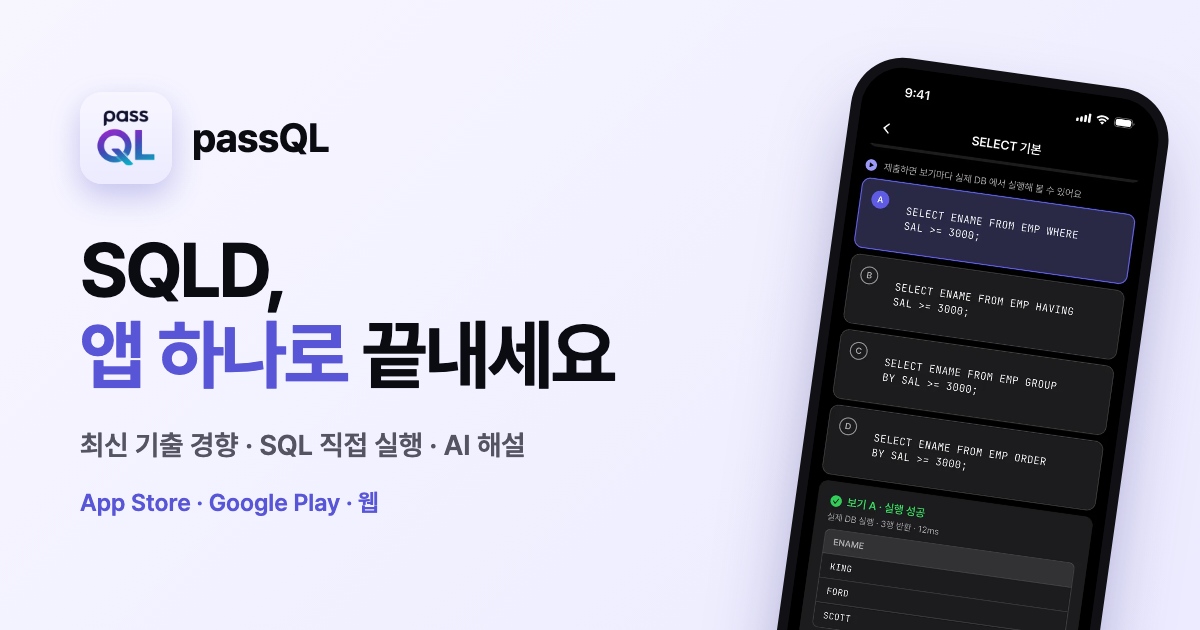
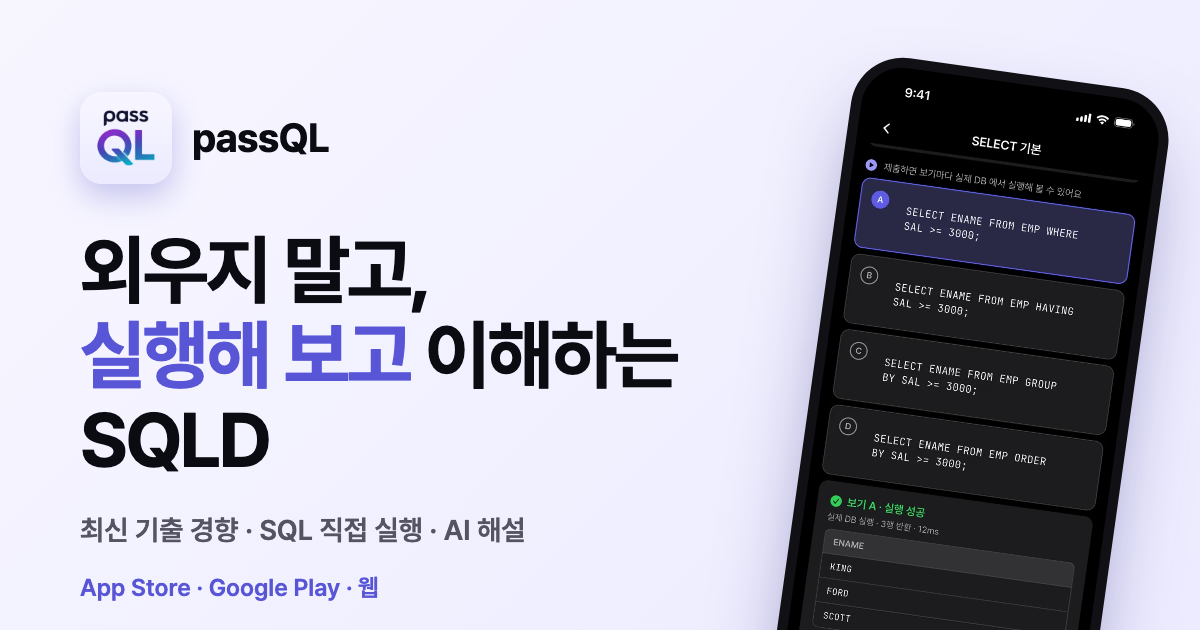
스토어 검색과 광고 인증 정비: Play 이름 SQLD, iOS 마케팅 URL, 무료 프로 설명 : docs : 소개 사이트 제목, 첫 화면, 공유 이미지, 하단 문구를 '외우지 말고, 실행해 보고 이해하는 SQLD' 메시지로 변경 https://github.com/Twin-Fang/passQL/issues/864

Changed region(s): [[0.0617, 0.3619, 0.5858, 0.754], [0.0617, 0.7841, 0.4317, 0.8746], [0.0617, 0.9048, 0.3392, 0.9651]]

diff --git a/index.html b/index.html
@@ -3,22 +3,22 @@
 <head>
 <meta charset="utf-8">
 <meta name="viewport" content="width=device-width, initial-scale=1">
-<title>passQL — SQLD 문제 풀이 앱 | 최신 기출 경향, AI 해설, 매일 5문제</title>
-<meta name="description" content="책 없이 앱 하나로 SQLD 준비. 제58~62회 복원 기출 경향을 반영한 문제를 풀고, 보기 SQL을 직접 실행하고, 틀린 이유는 AI 해설로 바로 확인하세요. 단원별 개념 학습, 매일 5문제 오늘의 세트, 합격 준비도까지. iPhone·Android·웹.">
+<title>passQL(패스큐엘) — SQLD 문제 풀이 앱 | 실행해 보고 이해하는 SQLD, AI 해설</title>
+<meta name="description" content="외우지 말고, 실행해 보고 이해하는 SQLD. 제58~62회 복원 기출 경향을 반영한 문제를 풀고, 보기 SQL을 직접 실행하고, 틀린 이유는 AI 해설로 바로 확인하세요. 단원별 개념 학습, 매일 5문제 오늘의 세트, 합격 준비도까지. iPhone·Android·웹.">
 <link rel="canonical" href="https://twin-fang.github.io/passQL/">
 <meta property="og:type" content="website">
 <meta property="og:site_name" content="passQL">
 <meta property="og:locale" content="ko_KR">
-<meta property="og:title" content="passQL — SQLD 문제 풀이 앱 | 최신 기출 경향, AI 해설, 매일 5문제">
-<meta property="og:description" content="책 없이 앱 하나로 SQLD 준비. 제58~62회 복원 기출 경향을 반영한 문제를 풀고, 보기 SQL을 직접 실행하고, 틀린 이유는 AI 해설로 바로 확인하세요. 단원별 개념 학습, 매일 5문제 오늘의 세트, 합격 준비도까지. iPhone·Android·웹.">
+<meta property="og:title" content="passQL(패스큐엘) — SQLD 문제 풀이 앱 | 실행해 보고 이해하는 SQLD, AI 해설">
+<meta property="og:description" content="외우지 말고, 실행해 보고 이해하는 SQLD. 제58~62회 복원 기출 경향을 반영한 문제를 풀고, 보기 SQL을 직접 실행하고, 틀린 이유는 AI 해설로 바로 확인하세요. 단원별 개념 학습, 매일 5문제 오늘의 세트, 합격 준비도까지. iPhone·Android·웹.">
 <meta property="og:url" content="https://twin-fang.github.io/passQL/">
 <meta property="og:image" content="https://twin-fang.github.io/passQL/icon/og.png">
 <meta property="og:image:width" content="1200">
 <meta property="og:image:height" content="630">
 <meta property="og:image:alt" content="passQL — SQLD 문제 풀이 앱">
 <meta name="twitter:card" content="summary_large_image">
-<meta name="twitter:title" content="passQL — SQLD 문제 풀이 앱 | 최신 기출 경향, AI 해설, 매일 5문제">
-<meta name="twitter:description" content="책 없이 앱 하나로 SQLD 준비. 제58~62회 복원 기출 경향을 반영한 문제를 풀고, 보기 SQL을 직접 실행하고, 틀린 이유는 AI 해설로 바로 확인하세요. 단원별 개념 학습, 매일 5문제 오늘의 세트, 합격 준비도까지. iPhone·Android·웹.">
+<meta name="twitter:title" content="passQL(패스큐엘) — SQLD 문제 풀이 앱 | 실행해 보고 이해하는 SQLD, AI 해설">
+<meta name="twitter:description" content="외우지 말고, 실행해 보고 이해하는 SQLD. 제58~62회 복원 기출 경향을 반영한 문제를 풀고, 보기 SQL을 직접 실행하고, 틀린 이유는 AI 해설로 바로 확인하세요. 단원별 개념 학습, 매일 5문제 오늘의 세트, 합격 준비도까지. iPhone·Android·웹.">
 <meta name="twitter:image" content="https://twin-fang.github.io/passQL/icon/og.png">
 <meta name="apple-itunes-app" content="app-id=6762165005">
 <meta name="color-scheme" content="light dark">
@@ -43,7 +43,7 @@
   "패스큐엘",
   "passQL SQLD"
  ],
- "description": "책 없이 앱 하나로 SQLD 준비. 최신 출제 경향 문제, 보기 SQL 직접 실행, AI 해설, 단원별 개념 학습, 매일 5문제 오늘의 세트, 오답 노트, 합격 준비도.",
+ "description": "외우지 말고, 실행해 보고 이해하는 SQLD. 최신 출제 경향 문제, 보기 SQL 직접 실행, AI 해설, 단원별 개념 학습, 매일 5문제 오늘의 세트, 오답 노트, 합격 준비도.",
  "applicationCategory": "EducationalApplication",
  "operatingSystem": "iOS, Android, Web",
  "inLanguage": "ko",
@@ -179,7 +179,7 @@
       <img class="hero-icon" src="icon/mark.png" width="84" height="84" alt="" aria-hidden="true">
       <p class="eyebrow"><span class="ms" aria-hidden="true">check_circle</span>SQLD 자격증 문제 풀이 앱</p>
       <p class="hero-dday" data-dday-show hidden><span class="ms" aria-hidden="true">event</span>SQLD 제63회까지 <strong data-dday-label></strong></p>
-      <h1>SQLD,<br><span class="hl">앱 하나로</span> 끝내세요</h1>
+      <h1>외우지 말고,<br><span class="hl">실행해 보고</span> 이해하는 SQLD</h1>
       <p class="lead">두꺼운 수험서 대신 최신 출제 경향을 반영한 문제를 풀고, 틀린 이유는 AI 해설로 바로 확인하세요. 매일 5문제부터 합격 준비도까지 passQL 하나면 충분해요.</p>
       <ul class="hero-points"><li><span class="ms" aria-hidden="true">local_fire_department</span>매일 5문제 오늘의 세트</li><li><span class="ms" aria-hidden="true">trending_up</span>제58~62회 기출 경향 반영</li><li><span class="ms" aria-hidden="true">auto_awesome</span>틀린 이유까지 AI 해설</li></ul>
       <div class="cta">
@@ -615,7 +615,7 @@
   <div class="wrap">
     <div class="foot-top">
       <a class="nav-brand" href=""><img class="brand-mark" src="icon/mark.png" width="28" height="28" alt="" aria-hidden="true">passQL</a>
-      <p class="foot-tagline">책 없이 앱 하나로 SQLD 준비</p>
+      <p class="foot-tagline">외우지 말고, 실행해 보고 이해하는 SQLD</p>
     </div>
     <div class="foot-links">
       <a href="sqld/">SQLD 준비</a>

diff --git a/sqld/index.html b/sqld/index.html
@@ -103,7 +103,7 @@
   "패스큐엘",
   "passQL SQLD"
  ],
- "description": "책 없이 앱 하나로 SQLD 준비. 최신 출제 경향 문제, 보기 SQL 직접 실행, AI 해설, 단원별 개념 학습, 매일 5문제 오늘의 세트, 오답 노트, 합격 준비도.",
+ "description": "외우지 말고, 실행해 보고 이해하는 SQLD. 최신 출제 경향 문제, 보기 SQL 직접 실행, AI 해설, 단원별 개념 학습, 매일 5문제 오늘의 세트, 오답 노트, 합격 준비도.",
  "applicationCategory": "EducationalApplication",
  "operatingSystem": "iOS, Android, Web",
  "inLanguage": "ko",
@@ -226,7 +226,7 @@
   <div class="wrap">
     <div class="foot-top">
       <a class="nav-brand" href="../"><img class="brand-mark" src="../icon/mark.png" width="28" height="28" alt="" aria-hidden="true">passQL</a>
-      <p class="foot-tagline">책 없이 앱 하나로 SQLD 준비</p>
+      <p class="foot-tagline">외우지 말고, 실행해 보고 이해하는 SQLD</p>
     </div>
     <div class="foot-links">
       <a href="../sqld/">SQLD 준비</a>

diff --git a/sqlp/index.html b/sqlp/index.html
@@ -95,7 +95,7 @@
   "패스큐엘",
   "passQL SQLD"
  ],
- "description": "책 없이 앱 하나로 SQLD 준비. 최신 출제 경향 문제, 보기 SQL 직접 실행, AI 해설, 단원별 개념 학습, 매일 5문제 오늘의 세트, 오답 노트, 합격 준비도.",
+ "description": "외우지 말고, 실행해 보고 이해하는 SQLD. 최신 출제 경향 문제, 보기 SQL 직접 실행, AI 해설, 단원별 개념 학습, 매일 5문제 오늘의 세트, 오답 노트, 합격 준비도.",
  "applicationCategory": "EducationalApplication",
  "operatingSystem": "iOS, Android, Web",
  "inLanguage": "ko",
@@ -203,7 +203,7 @@
   <div class="wrap">
     <div class="foot-top">
       <a class="nav-brand" href="../"><img class="brand-mark" src="../icon/mark.png" width="28" height="28" alt="" aria-hidden="true">passQL</a>
-      <p class="foot-tagline">책 없이 앱 하나로 SQLD 준비</p>
+      <p class="foot-tagline">외우지 말고, 실행해 보고 이해하는 SQLD</p>
     </div>
     <div class="foot-links">
       <a href="../sqld/">SQLD 준비</a>

diff --git a/404.html b/404.html
@@ -64,7 +64,7 @@
   <div class="wrap">
     <div class="foot-top">
       <a class="nav-brand" href="/passQL/"><img class="brand-mark" src="/passQL/icon/mark.png" width="28" height="28" alt="" aria-hidden="true">passQL</a>
-      <p class="foot-tagline">책 없이 앱 하나로 SQLD 준비</p>
+      <p class="foot-tagline">외우지 말고, 실행해 보고 이해하는 SQLD</p>
     </div>
     <div class="foot-links">
       <a href="/passQL/sqld/">SQLD 준비</a>

diff --git a/privacy.html b/privacy.html
@@ -96,7 +96,7 @@
   <div class="wrap">
     <div class="foot-top">
       <a class="nav-brand" href=""><img class="brand-mark" src="icon/mark.png" width="28" height="28" alt="" aria-hidden="true">passQL</a>
-      <p class="foot-tagline">책 없이 앱 하나로 SQLD 준비</p>
+      <p class="foot-tagline">외우지 말고, 실행해 보고 이해하는 SQLD</p>
     </div>
     <div class="foot-links">
       <a href="sqld/">SQLD 준비</a>

diff --git a/terms.html b/terms.html
@@ -96,7 +96,7 @@
   <div class="wrap">
     <div class="foot-top">
       <a class="nav-brand" href=""><img class="brand-mark" src="icon/mark.png" width="28" height="28" alt="" aria-hidden="true">passQL</a>
-      <p class="foot-tagline">책 없이 앱 하나로 SQLD 준비</p>
+      <p class="foot-tagline">외우지 말고, 실행해 보고 이해하는 SQLD</p>
     </div>
     <div class="foot-links">
       <a href="sqld/">SQLD 준비</a>

diff --git a/_src/site_content.py b/_src/site_content.py
@@ -49,14 +49,14 @@ SQLD_SUBJECTS = [
 ]
 
 # ── 첫 화면 ──
-HOME_TITLE = "passQL — SQLD 문제 풀이 앱 | 최신 기출 경향, AI 해설, 매일 5문제"
-HOME_DESCRIPTION = ("책 없이 앱 하나로 SQLD 준비. 제58~62회 복원 기출 경향을 반영한 문제를 풀고, "
+HOME_TITLE = "passQL(패스큐엘) — SQLD 문제 풀이 앱 | 실행해 보고 이해하는 SQLD, AI 해설"
+HOME_DESCRIPTION = ("외우지 말고, 실행해 보고 이해하는 SQLD. 제58~62회 복원 기출 경향을 반영한 문제를 풀고, "
                     "보기 SQL을 직접 실행하고, 틀린 이유는 AI 해설로 바로 확인하세요. 단원별 개념 학습, 매일 5문제 오늘의 세트, 합격 준비도까지. iPhone·Android·웹.")
 
 HERO_EYEBROW = "SQLD 자격증 문제 풀이 앱"
-HERO_TITLE_LEAD = "SQLD,"
-HERO_TITLE_HIGHLIGHT = "앱 하나로"
-HERO_TITLE_TAIL = "끝내세요"
+HERO_TITLE_LEAD = "외우지 말고,"
+HERO_TITLE_HIGHLIGHT = "실행해 보고"
+HERO_TITLE_TAIL = "이해하는 SQLD"
 HERO_LEAD = ("두꺼운 수험서 대신 최신 출제 경향을 반영한 문제를 풀고, 틀린 이유는 AI 해설로 바로 확인하세요. "
              "매일 5문제부터 합격 준비도까지 passQL 하나면 충분해요.")
 # 첫 화면 핵심 3개: (아이콘, 문구)

diff --git a/_src/site_head.py b/_src/site_head.py
@@ -152,7 +152,7 @@ def render_footer(root):
   <div class="wrap">
     <div class="foot-top">
       <a class="nav-brand" href="{root}"><img class="brand-mark" src="{root}icon/mark.png" width="28" height="28" alt="" aria-hidden="true">passQL</a>
-      <p class="foot-tagline">책 없이 앱 하나로 SQLD 준비</p>
+      <p class="foot-tagline">외우지 말고, 실행해 보고 이해하는 SQLD</p>
     </div>
     <div class="foot-links">
       <a href="{root}sqld/">SQLD 준비</a>
@@ -222,7 +222,7 @@ def build_app_json_ld():
         "@type": "MobileApplication",
         "name": "passQL",
         "alternateName": ["패스큐엘", "passQL SQLD"],
-        "description": "책 없이 앱 하나로 SQLD 준비. 최신 출제 경향 문제, 보기 SQL 직접 실행, AI 해설, 단원별 개념 학습, 매일 5문제 오늘의 세트, 오답 노트, 합격 준비도.",
+        "description": "외우지 말고, 실행해 보고 이해하는 SQLD. 최신 출제 경향 문제, 보기 SQL 직접 실행, AI 해설, 단원별 개념 학습, 매일 5문제 오늘의 세트, 오답 노트, 합격 준비도.",
         "applicationCategory": "EducationalApplication",
         "operatingSystem": "iOS, Android, Web",
         "inLanguage": "ko",

diff --git a/_src/build_icons.py b/_src/build_icons.py
@@ -43,7 +43,7 @@ p {{ margin: 30px 0 0; font-size: 28px; font-weight: 600; color: #545463; }}
 </style></head><body>
 <div class="copy">
   <div class="brand"><img src="{icon_uri}" alt="">passQL</div>
-  <h1>SQLD,<br><span>앱 하나로</span> 끝내세요</h1>
+  <h1>외우지 말고,<br><span>실행해 보고</span> 이해하는 SQLD</h1>
   <p>최신 기출 경향 · SQL 직접 실행 · AI 해설</p>
   <div class="stores">App Store · Google Play · 웹</div>
 </div>
